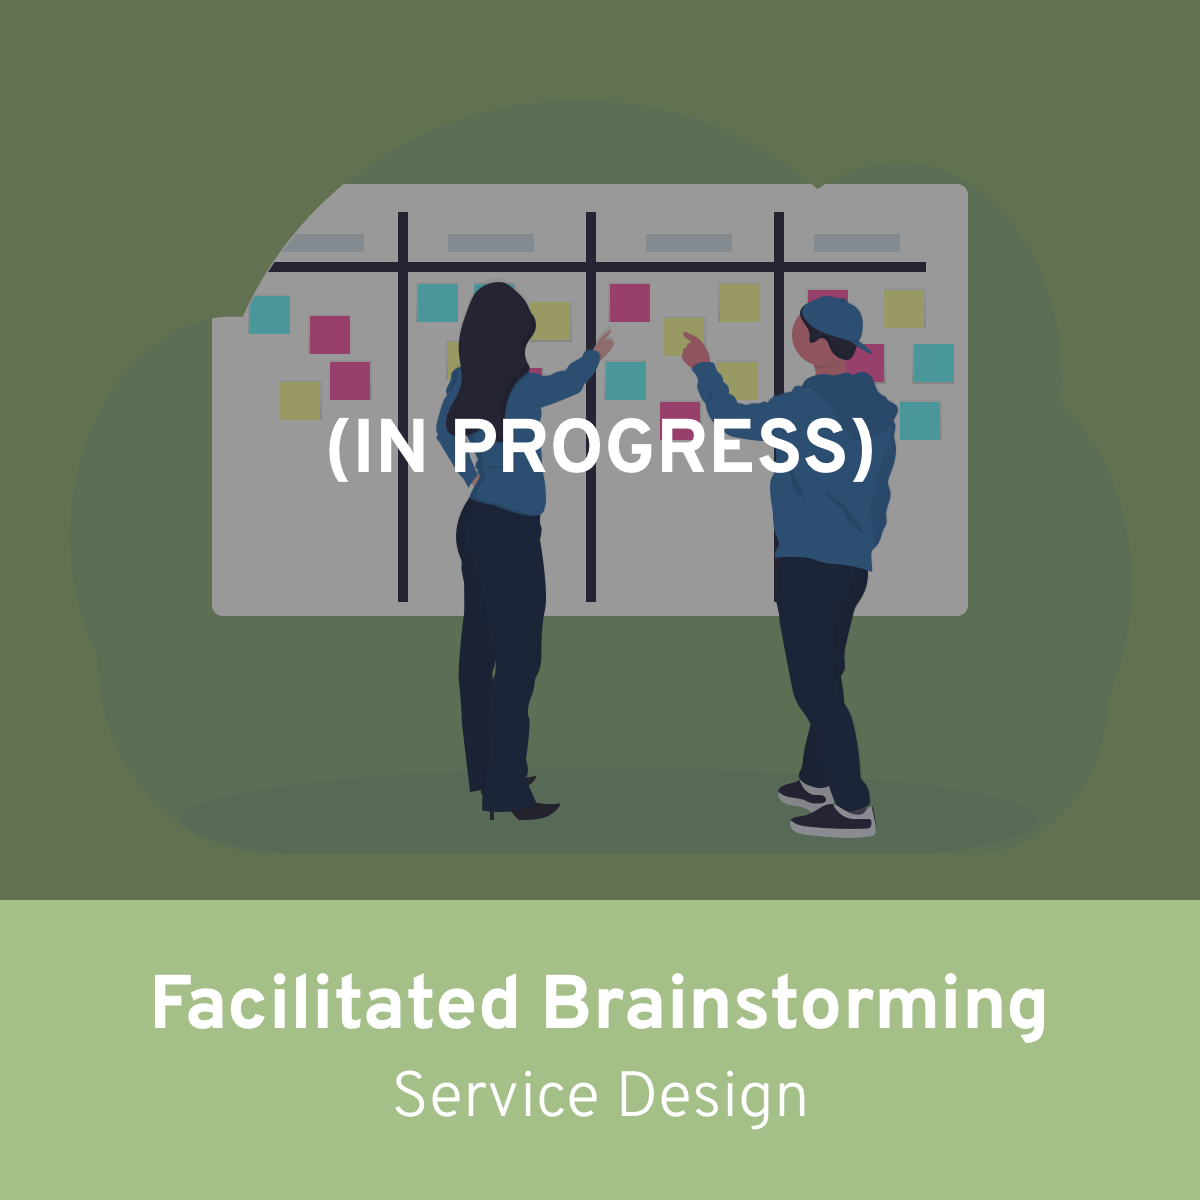
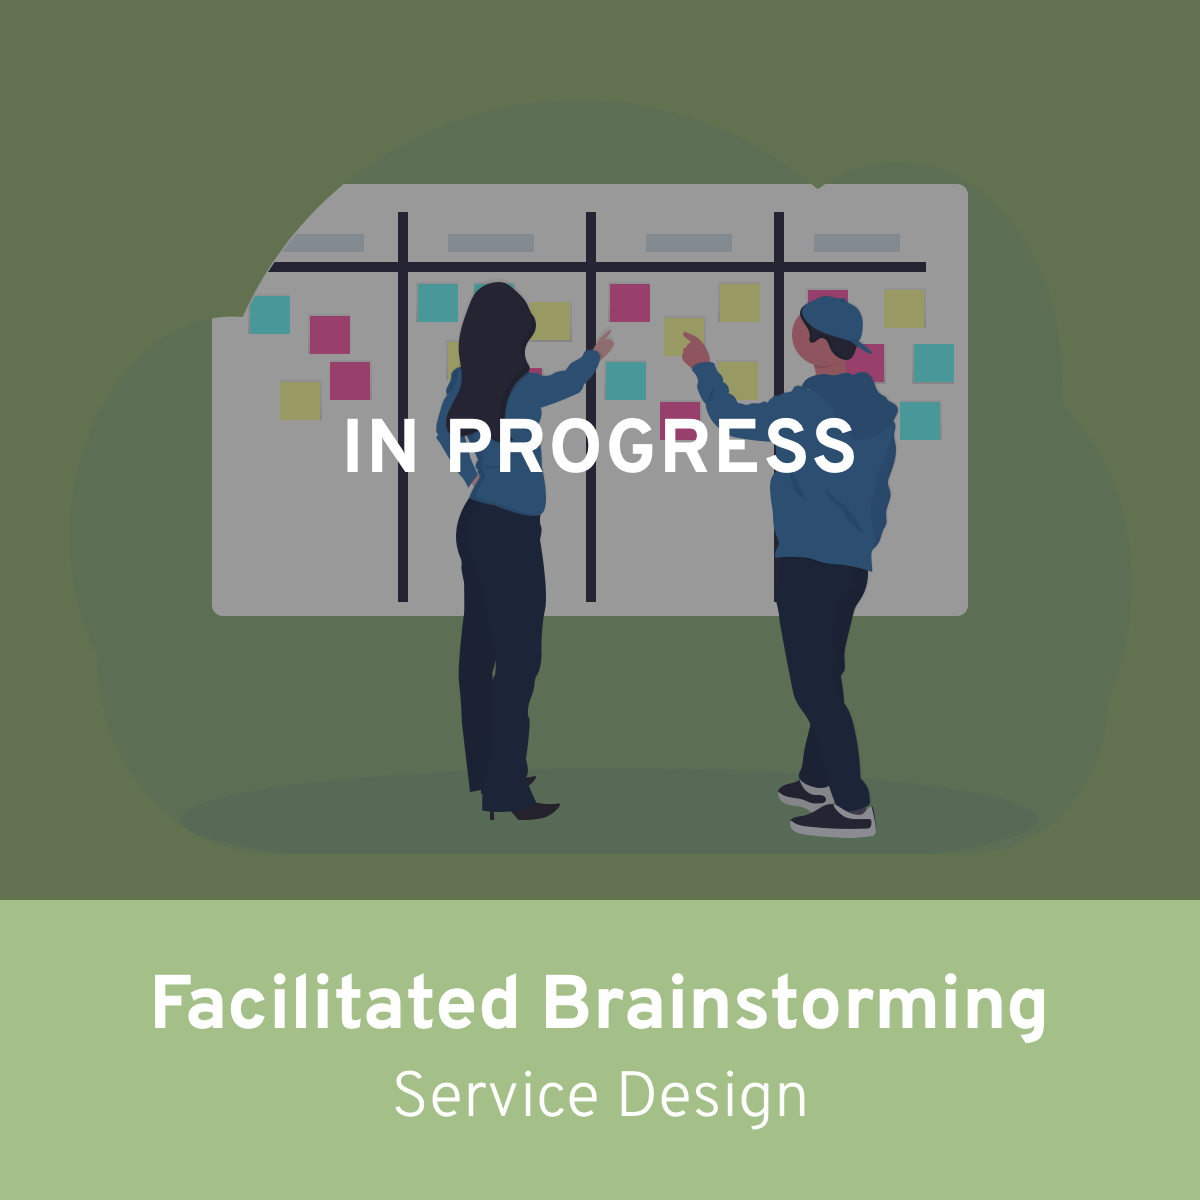
finished adding new content, updated hover and homepage

Changed region(s): [[0.5242, 0.3392, 0.74, 0.4008], [0.2775, 0.3392, 0.4625, 0.4008]]

diff --git a/work-community-engagement-network.html b/work-community-engagement-network.html
@@ -1,7 +1,7 @@
 <!DOCTYPE html>
 <html>
 <head>
-  <title>Linde Huang | The Patient Journey</title>
+  <title>Linde Huang | Community Engagement Network</title>
   <link rel="shortcut icon" href="assets/images/brand/LHOutline.png"/>
 
   <meta charset="utf-8">
@@ -41,30 +41,33 @@
 <body>
   <article>
     <section>
-      <h1 class="full-width servicedesign-color-h1" id="transitionIn">
-        The Patient Journey
+      <h1 class="full-width newproductdevelopment-color-h1" id="transitionIn">
+        Community Engagement Network
       </h1>
-      <img src="assets/images/casestudiesall/CaseStudyPatientJourneyCover.png" alt="Patient Journey Case Study" class="image-full-width">
-      <h4 class="partial-width centered grey uppercase">- Project in progress -</h4>
+      <img src="assets/images/casestudiesall/CaseStudyCommunityEngagementNetworkCover.png" alt="Community Engagement Case Study" class="image-full-width">
+      <h4 class="partial-width centered grey uppercase"> - Project in progress - </h4>
 
-      <h2 class="partial-width servicedesign-color-h2">
+      <h2 class="partial-width newproductdevelopment-color-h2">
         Problem
       </h2>
       <p class="partial-width">
-        Healthcare is an extremely confusing landscape, and patients who try to navigate the system are doing so under increased stress and anxiety due to their conditions. But considering healthcare is inherently personal and sensitive in nature, it’s critical to make sure the patients are as supported as possible throughout the process.
+        Health research has long been considered solely an academic pursuit, and it’s extremely common for researchers to conduct their experiments without the contributions and feedback of the greater communities they study. This makes for both bad relationships and bad science.
       </p>
       <p class="partial-width">
-        The University of Michigan Hospital has created many of its clinical workflows to maximize efficiency of the hospital’s operations, creating unintended consequences for the experience of the patient. This has created a <strong>severe lack of awareness</strong> from each department about what exactly takes place in other departments, clinics, or services a patient is exposed to.
+        Thankfully, a new research approach is starting to gain traction. Community-engaged research (CEnR) is a philosophy and set of research methods that aim to <strong>bring community partners into the research process</strong>, at any point from study design and implementation to analysis and dissemination.
+      </p>
+      <p class="partial-width">
+        However, since the approach is so new, there is very little infrastructure in place to help it take root and thrive.
       </p>
 
-      <h2 class="partial-width servicedesign-color-h2">
+      <h2 class="partial-width newproductdevelopment-color-h2">
         Proposal
       </h2>
       <p class="partial-width">
-        We need a <strong>holistic understanding of the patient’s journey</strong> through the health system in order to effectively engage patients as full partners in their care.
+        We aim to use a human-centered design approach to create a network that will enable and enhance community-engaged research across the state of Michigan.
       </p>
       <p class="partial-width">
-        We hope to create a patient journey map for a number of different patient experiences throughout the University of Michigan hospital system. Having this visual framework will help us better understand areas within a journey that cause distress and unnecessary confusion so we can work to improve them, as well as identify opportunities for impactful engagement.
+        This product we build will likely be a <strong>dynamic system consisting of both a technological component as well as a human service model</strong> that outlines how the technology can seamlessly integrate with the existing MICHR Community Engagement team offerings.
       </p>
 
       <h3 class="partial-width">
@@ -72,10 +75,10 @@
       </h3>
       <p class="partial-width">
         <ol class="partial-width">
-            <li>Conduct contextual research with Patient and Family Advisors, which could include a host of methods (interviews, diary studies, ethnographic observations, etc.)</li>
-            <li>Synthesize research findings</li>
-            <li>Graphically visualize a journey map</li>
-            <li>Disseminate the process and findings (paper, presentations, etc.)</li>
+            <li><strong>Strategize:</strong> Establish audience and goals</li>
+            <li><strong>Discover:</strong> Gain a deep understanding of core users, consolidating the initial learnings to identify and prioritize user needs</li>
+            <li><strong>Prototype:</strong> Create multiple possibilities of platforms and service models, test them with users</li>
+            <li><strong>Build:</strong> Create a minimum viable product to release to the world, tracking key metrics and garnering feedback to guide future improvements.</li>
           </ol>
       </p>
 
@@ -83,7 +86,7 @@
         Partners
       </h3>
       <p class="partial-width">
-        We're working on this project in partnership with the University of Michigan’s <a href="https://medicine.umich.edu/dept/office-patient-experience">Office of Patient Experience</a>.
+        We're working on this project in partnership with the Michigan Institute of Clinical & Health Research (MICHR) Community Engagement team.
       </p>
 
       <h4 class="partial-width centered grey uppercase"><br>- Full case study coming soon -</h4>

diff --git a/work-mi-research-partnerships.html b/work-mi-research-partnerships.html
@@ -1,7 +1,7 @@
 <!DOCTYPE html>
 <html>
 <head>
-  <title>Linde Huang | The Patient Journey</title>
+  <title>Linde Huang | Facilitated Brainstorming</title>
   <link rel="shortcut icon" href="assets/images/brand/LHOutline.png"/>
 
   <meta charset="utf-8">
@@ -42,19 +42,19 @@
   <article>
     <section>
       <h1 class="full-width servicedesign-color-h1" id="transitionIn">
-        The Patient Journey
+        Facilitated Brainstorming
       </h1>
-      <img src="assets/images/casestudiesall/CaseStudyPatientJourneyCover.png" alt="Patient Journey Case Study" class="image-full-width">
-      <h4 class="partial-width centered grey uppercase">- Project in progress -</h4>
+      <img src="assets/images/casestudiesall/CaseStudyFacilitatedBrainstormingCover.png" alt="FacilitatedBrainstorming Case Study" class="image-full-width">
+      <h4 class="partial-width centered grey uppercase">(Project in progress)</h4>
 
       <h2 class="partial-width servicedesign-color-h2">
         Problem
       </h2>
       <p class="partial-width">
-        Healthcare is an extremely confusing landscape, and patients who try to navigate the system are doing so under increased stress and anxiety due to their conditions. But considering healthcare is inherently personal and sensitive in nature, it’s critical to make sure the patients are as supported as possible throughout the process.
+        Healthcare is an extremely <strong>confusing landscape</strong>, and patients who try to navigate the system are doing so under <strong>increased stress and anxiety</strong> due to their conditions. But considering healthcare is inherently personal and sensitive in nature, it’s critical to make sure the patients are as <strong>supported</strong> as possible throughout the process.
       </p>
       <p class="partial-width">
-        The University of Michigan Hospital has created many of its clinical workflows to maximize efficiency of the hospital’s operations, creating unintended consequences for the experience of the patient. This has created a <strong>severe lack of awareness</strong> from each department about what exactly takes place in other departments, clinics, or services a patient is exposed to.
+        The University of Michigan Hospital has created many of its clinical workflows to maximize efficiency of the hospital’s operations, creating unintended consequences for the experience of the patient. There is a severe <strong>lack of awareness</strong> from each department about what exactly takes place in other departments, clinics, or services a patient is exposed to.
       </p>
 
       <h2 class="partial-width servicedesign-color-h2">
@@ -64,12 +64,12 @@
         We need a <strong>holistic understanding of the patient’s journey</strong> through the health system in order to effectively engage patients as full partners in their care.
       </p>
       <p class="partial-width">
-        We hope to create a patient journey map for a number of different patient experiences throughout the University of Michigan hospital system. Having this visual framework will help us better understand areas within a journey that cause distress and unnecessary confusion so we can work to improve them, as well as identify opportunities for impactful engagement.
+        We hope to create a patient journey map for a number of <strong>different patient experiences</strong> throughout the University of Michigan hospital system. Having this visual framework will help  us better understand areas within a journey that cause distress and unnecessary confusion so we can work to improve them, as well as identify opportunities for impactful engagement.
       </p>
 
-      <h3 class="partial-width">
+      <h2 class="partial-width servicedesign-color-h2">
         High-level Plan
-      </h3>
+      </h2>
       <p class="partial-width">
         <ol class="partial-width">
             <li>Conduct contextual research with Patient and Family Advisors, which could include a host of methods (interviews, diary studies, ethnographic observations, etc.)</li>
@@ -79,14 +79,7 @@
           </ol>
       </p>
 
-      <h3 class="partial-width">
-        Partners
-      </h3>
-      <p class="partial-width">
-        We're working on this project in partnership with the University of Michigan’s <a href="https://medicine.umich.edu/dept/office-patient-experience">Office of Patient Experience</a>.
-      </p>
-
-      <h4 class="partial-width centered grey uppercase"><br>- Full case study coming soon -</h4>
+      <h4 class="partial-width centered grey uppercase"><br>(Full case study coming soon)</h4>
 
 
 

diff --git a/index.html b/index.html
@@ -41,42 +41,46 @@
 
   <article>
     <section>
-      <h1 class="full-width home-header-text brand-secondary-color-h1" id="transitionIn">
+      <h1 class="full-width home-header-text brand-secondary-color-h1" id="transitionIn" id="work">
         Hi there! I'm Linde.
       </h1>
-      <p class="partial-width home-subheader-text">
+      <p class="partial-width home-paragraph-text">
         I’m a <strong>Human-Centered Designer</strong> at the University of Michigan Hospital.
       </p>
-      <p class="partial-width home-subheader-text">
-        As part of the Design & Innovation team at <a href="https://www.michr.umich.edu/" target="_blank">MICHR</a>, I focus on helping <strong>important health discoveries</strong> get from research labs to patient bedsides. Our team provides strategy and design services all across the hospital, helping teams <strong>better understand their researcher and patient audiences</strong>, and work with them to <strong>experiment with new approaches to better serve their audiences</strong>.
+      <p class="partial-width home-paragraph-text">
+        As part of the Design & Innovation team at <a href="https://www.michr.umich.edu/" target="_blank">MICHR</a>, I help get important health discoveries from the research lab to the patient bedside.
       </p>
-      <p class="partial-width home-subheader-text">
-        We strive to share the <strong>unbridled creativity</strong> that comes from the principles, mindsets, and methods of human-centered design.
+        <p class="partial-width home-paragraph-text">
+          My team provides strategy and design services all across the hospital to help teams <strong>gain a deeper understanding</strong> of their researcher and patient audiences and <strong>experiment with new approaches</strong> to better serve those audiences.
+        </p>
+
+      <p class="partial-width home-paragraph-text">
+        I strive to share the <strong>serendipitous creativity</strong> that comes from the principles, mindsets, and methods of human-centered design.
       </p>
-      <p class="partial-width home-subheader-text">
+      <p class="partial-width home-paragraph-text">
         Take a look at what I've been working on.
       </p>
 
 
-      <h2 class="partial-width servicedesign-color-h2" id="work">
+      <h2 class="partial-width servicedesign-color-h2" >
         Service Design
       </h2>
-      <a href="work-patient-journey.html" class="image-partial-width transform-scale">
-          <img src="assets/images/homepage/ThePatientJourneyCard.png" alt="Patient Journey Case Study">
+      <a href="work-patient-journey.html" class="image-partial-width transform-scale hover-trim">
+         <img src="assets/images/homepage/ThePatientJourneyCard.png" alt="Patient Journey Case Study">
       </a>
 
       <h2 class="partial-width newproductdevelopment-color-h2">
-        New Product Development
+        New Product Incubation
       </h2>
-      <a href="work-mi-research-partnerships.html" class="image-partial-width transform-scale">
-          <img src="assets/images/homepage/MiResearchPartnershipsCard.png" alt="Mi Research Partnerships Case Study">
+      <a href="work-community-engagement-network.html" class="image-partial-width transform-scale hover-trim">
+          <img src="assets/images/homepage/CommunityEngagementNetworkCard.png" alt="Community Engagement Network Case Study">
       </a>
 
 
       <h2 class="partial-width uxdesign-color-h2">
         UX Design
       </h2>
-      <a href="work-jottful-blog.html" class="image-partial-width transform-scale">
+      <a href="work-jottful-blog.html" class="image-partial-width transform-scale hover-trim">
           <img src="assets/images/homepage/JottfulBloggingCard.png" alt="Jottful Blog Case Study">
       </a>
 
@@ -84,11 +88,11 @@
         Visual Design
       </h2>
 
-      <a href="work-web-design.html" class="image-partial-width transform-scale no-margin-bottom">
+      <a href="work-web-design.html" class="image-partial-width transform-scale no-margin-bottom hover-trim">
           <img src="assets/images/homepage/WebDesignCard.png" alt="Linde Huang Web Design link">
       </a>
 
-      <a href="work-print-design.html" class="image-partial-width printdesign-background-color transform-scale">
+      <a href="work-print-design.html" class="image-partial-width printdesign-background-color transform-scale hover-trim">
           <img src="assets/images/homepage/PrintDesignCard.png" alt="Linde Huang Print Design link">
       </a>
 

diff --git a/work-print-design.html b/work-print-design.html
@@ -49,6 +49,9 @@
       <h2 class="partial-width visualdesign-color-h2">
         Community Engagement Event Flyer Template - 3 Variations
       </h2>
+      <p class="partial-width">
+        The Community Enagement team often holds in-person events to bring academics and community members together. I created a series of flyer templates to help them professionalize and standardize their promotions.
+      </p>
       <img src="assets/images/visualdesign/CEFlyer1.png" alt="Linde Huang Print Design Flyer Sample 1" class="image-third-width no-margin-bottom img-border">
       <img src="assets/images/visualdesign/CEFlyer2.png" alt="Linde Huang Print Design Flyer Sample 2" class="image-third-width no-margin-bottom img-border">
       <img src="assets/images/visualdesign/CEFlyer3.png" alt="Linde Huang Print Design Flyer Sample 3" class="image-third-width img-border">
@@ -56,21 +59,33 @@
       <h2 class="partial-width visualdesign-color-h2">
         Scoliosis Informational Poster
       </h2>
+      <p class="partial-width">
+        A group of interdisciplinary researchers gathered for a facilitated brainstorming event around improving the limited treatment options of scoliosis. Because some of the attendees did not have a medical background, I created an infographic to give a high-level overview of a person's journey with desease, highlighting the human elements that make the disease so agonizing.
+      </p>
       <img src="assets/images/visualdesign/ScoliosisHandout.png" alt="Linde Huang Print Design Infographic Sample 1" class="image-full-width img-border">
 
       <h2 class="partial-width visualdesign-color-h2">
         MICHR Design Process Template
       </h2>
+      <p class="partial-width">
+        Many of my team's clients do not have any experience with design or the human-centered design process. I created this process overview template for my team to show to clients in order that they may better understand the work we do. It emphasizes the need for user feedback at almost every step, and can be customized for each project.
+      </p>
       <img src="assets/images/visualdesign/MICHRDesignProcess.png" alt="Linde Huang Print Design Infographic Sample 4" class="image-full-width img-border">
 
       <h2 class="partial-width visualdesign-color-h2">
         Team Advancement Award Flyer
       </h2>
-      <img src="assets/images/visualdesign/TeamAdvancementAwardFlyer.png" alt="Linde Huang Print Design Flyer Sample 4" class="image-partial-width img-border">
+      <p class="partial-width">
+        Many research studies comprise of large, dispersed teams who do not typically have the chance to form a sense of unity. I created this flyer to promote the Team Adavancement Award, a sum of money given to teams who wish to invest in their team comraderie.
+      </p>
+      <img src="assets/images/visualdesign/TeamAdvancementAwardFlyer.png" alt="Linde Huang Print Design Flyer Sample 4" class="image-full-width img-border">
 
       <h2 class="partial-width visualdesign-color-h2">
         Good and Bad Design Analysis
       </h2>
+      <p class="partial-width">
+        My greater department focuses on research infrastructure, and few people have little knowledge of visual design principles. I created these charts as a way of highlighting a few key design principles to help my colleagues enter the wonderful world of design.
+      </p>
       <img src="assets/images/visualdesign/GoodDesignAnalysis.png" alt="Linde Huang Print Design Infographic Sample 2" class="image-half-width no-margin-bottom img-border">
       <img src="assets/images/visualdesign/BadDesignAnalysis.png" alt="Linde Huang Print Design Infographic Sample 3" class="image-half-width img-border">
 

diff --git a/about.html b/about.html
@@ -55,7 +55,7 @@
         Hi there! My name is Linde Huang (pronounced LYNN-dee HWONG).
       </p>
       <p class="partial-width">
-        I have a winding journey to design (via electrical electrical and computer engineering at Duke University to product management at Microsoft to database training at Epic) and I'm glad I'm finally here.
+        I have a winding journey to design (via electrical and computer engineering at Duke University to product management at Microsoft to database training at Epic) and I'm glad I'm finally here.
       </p>
       <p class="partial-width">
         <!-- My wide variety of experiences and interests have humbled me, helping me see that my own perspectives are insufficient for solving the most pressing design challenges. I ask a lot of questions in an attempt to shed light into the darkness, hoping to come alongside people to explore potential futures. -->
@@ -66,6 +66,7 @@
       <p class="partial-width">
         Say hello by sending me an &nbsp;<a href="mailto:linde.lu.huang@gmail.com" target="_blank"><img class="icon-inline" src="assets/images/headerfooter/MailLogo.png"></a> <a href="mailto:linde.lu.huang@gmail.com" target="_blank">email</a>.
       </p>
+
       <img src="assets/images/brand/AboutMePhoto.png" alt="Linde Huang About Me Photo" class="image-full-width">
       <h2 class="partial-width brand-color-h2">
         Hobby Corner

diff --git a/assets/css/style.css b/assets/css/style.css
@@ -317,12 +317,44 @@ ul li, ol li {
 
 /* -------- Images & Video -------- */
 
+a img {
+  display: block;
+}
+
 .transform-scale {
   transition: all .8s;
 }
 
 .transform-scale:hover {
-  transform: scale(1.05);
+  transform: scale(1.025);
+  filter: drop-shadow(2px 2px 8px gray);
+}
+
+.hover-trim {
+  display: inline-block;
+  /* vertical-align: middle; */
+  -webkit-transform: perspective(1px) translateZ(0);
+  transform: perspective(1px) translateZ(0);
+  /* box-shadow: 0 0 1px rgba(0, 0, 0, 0); */
+  /* position: relative; */
+}
+
+.hover-trim::before {
+  content: '';
+  position: absolute;
+  border: white solid 6px;
+  top: 12px;
+  left: 12px;
+  right: 12px;
+  bottom: 12px;
+  opacity: 0;
+  -webkit-transition-duration: 0.8s;
+  transition-duration: 0.8s;
+  -webkit-transition-property: opacity;
+  transition-property: opacity;
+}
+.hover-trim:hover::before, .hover-trim:focus::before, .hover-trim:active::before {
+  opacity: 1;
 }
 
 .img-border {
@@ -439,16 +471,12 @@ ul li, ol li {
   margin-bottom: .5em;
 }
 
-.home-subheader-text {
-  font-size: 1.3em;
+.home-paragraph-text {
+  font-size: 1.1em;
+    text-align: justify;
+    hyphens: auto;
 }
 
-@media only screen and (max-width: 600px) {
-  .home-subheader-text {
-    font-size: 1.2em;
-    line-height: 1.6em;
-  }
-}
 
 
 

diff --git a/work-web-design.html b/work-web-design.html
@@ -47,9 +47,6 @@
       <h2 class="partial-width visualdesign-color-h2">
         No-Med Pharmacy
       </h2>
-      <h3 class="partial-width">
-        Background
-      </h3>
       <p class="partial-width">
         The No Med Pharmacy was an in-person booth event that featured pharmacy shelves with no medicine, demonstrating what would happen if no people were to participate in research studies. This landing page would accompany the booth as the take-away for people who became interested in learning more after the event.
       </p>
@@ -71,9 +68,6 @@
       <h2 class="partial-width visualdesign-color-h2">
         <br><br>ABS Network Website
       </h2>
-      <h3 class="partial-width">
-        Background
-      </h3>
       <p class="partial-width">
         The Applied Biostatistical Sciences (ABS) network encompasses a group of applied statisticians across the University of Michigan. Often working as the only statistician within their team, this network allows for connections and resource sharing among the otherwise siloed staff.
       </p>
